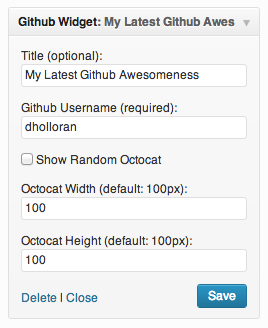
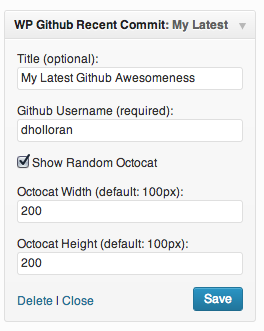
Updated read me

diff --git a/README.md b/README.md
@@ -1,4 +1,30 @@
-wp-github-recent-commit
-=======================
+#WP Multi File Uploader
 
-Wordpress widget that grabs a random octocat and the latest commit from a public github repository
+**Description:** Wordpress widget that grabs a random Octocat from the octodex and the latest commit from the master branch of a public GitHub repository
+
+**Plugin Home Page:** not approved
+
+
+**Thanks to:** If your project is included and I do not have you added please let me know, thank you.
+
+If you have any issues please submit an [issue](https://github.com/DHolloran/wp-github-recent-commit/issues/new) or fix it/submit a pull request I will try to handle it ASAP. You an also contact me at [Dan@danholloran.com](mailto:dan@danholloran.com).
+
+##Screenshots
+![image](screenshot1.png)  
+![image](screenshot2.png)
+
+##Getting Started
+To get started with WP Github Recent Commit you can download it directly [here](https://github.com/DHolloran/wp-github-recent-commit/archive/master.zip), search for WP Github Recent Commit in your administrator section's Plugins > Add New, or you can download it from the [Wordpress plugins directory](#) (not approved).
+
+
+###Wordpress Plugin Directory Instructions
+1. Search for WP Github Recent Commit in Plugins > Add New
+2. Install &amp; Activate WP Github Recent Commit
+3. Go to Appearance > Widgets drag the WP Github Recent Commit widget to the sidebar area of your choice
+4. Fill in your GitHub username
+
+###Manual Install Instructions
+1. Unzip your download and place in wp-content/plugins/
+2. Activate WP Github Recent Commit in the Wordpress Admin area
+3. Go to Appearance > Widgets drag the WP Github Recent Commit widget to the sidebar area of your choice
+4. Fill in your GitHub username
